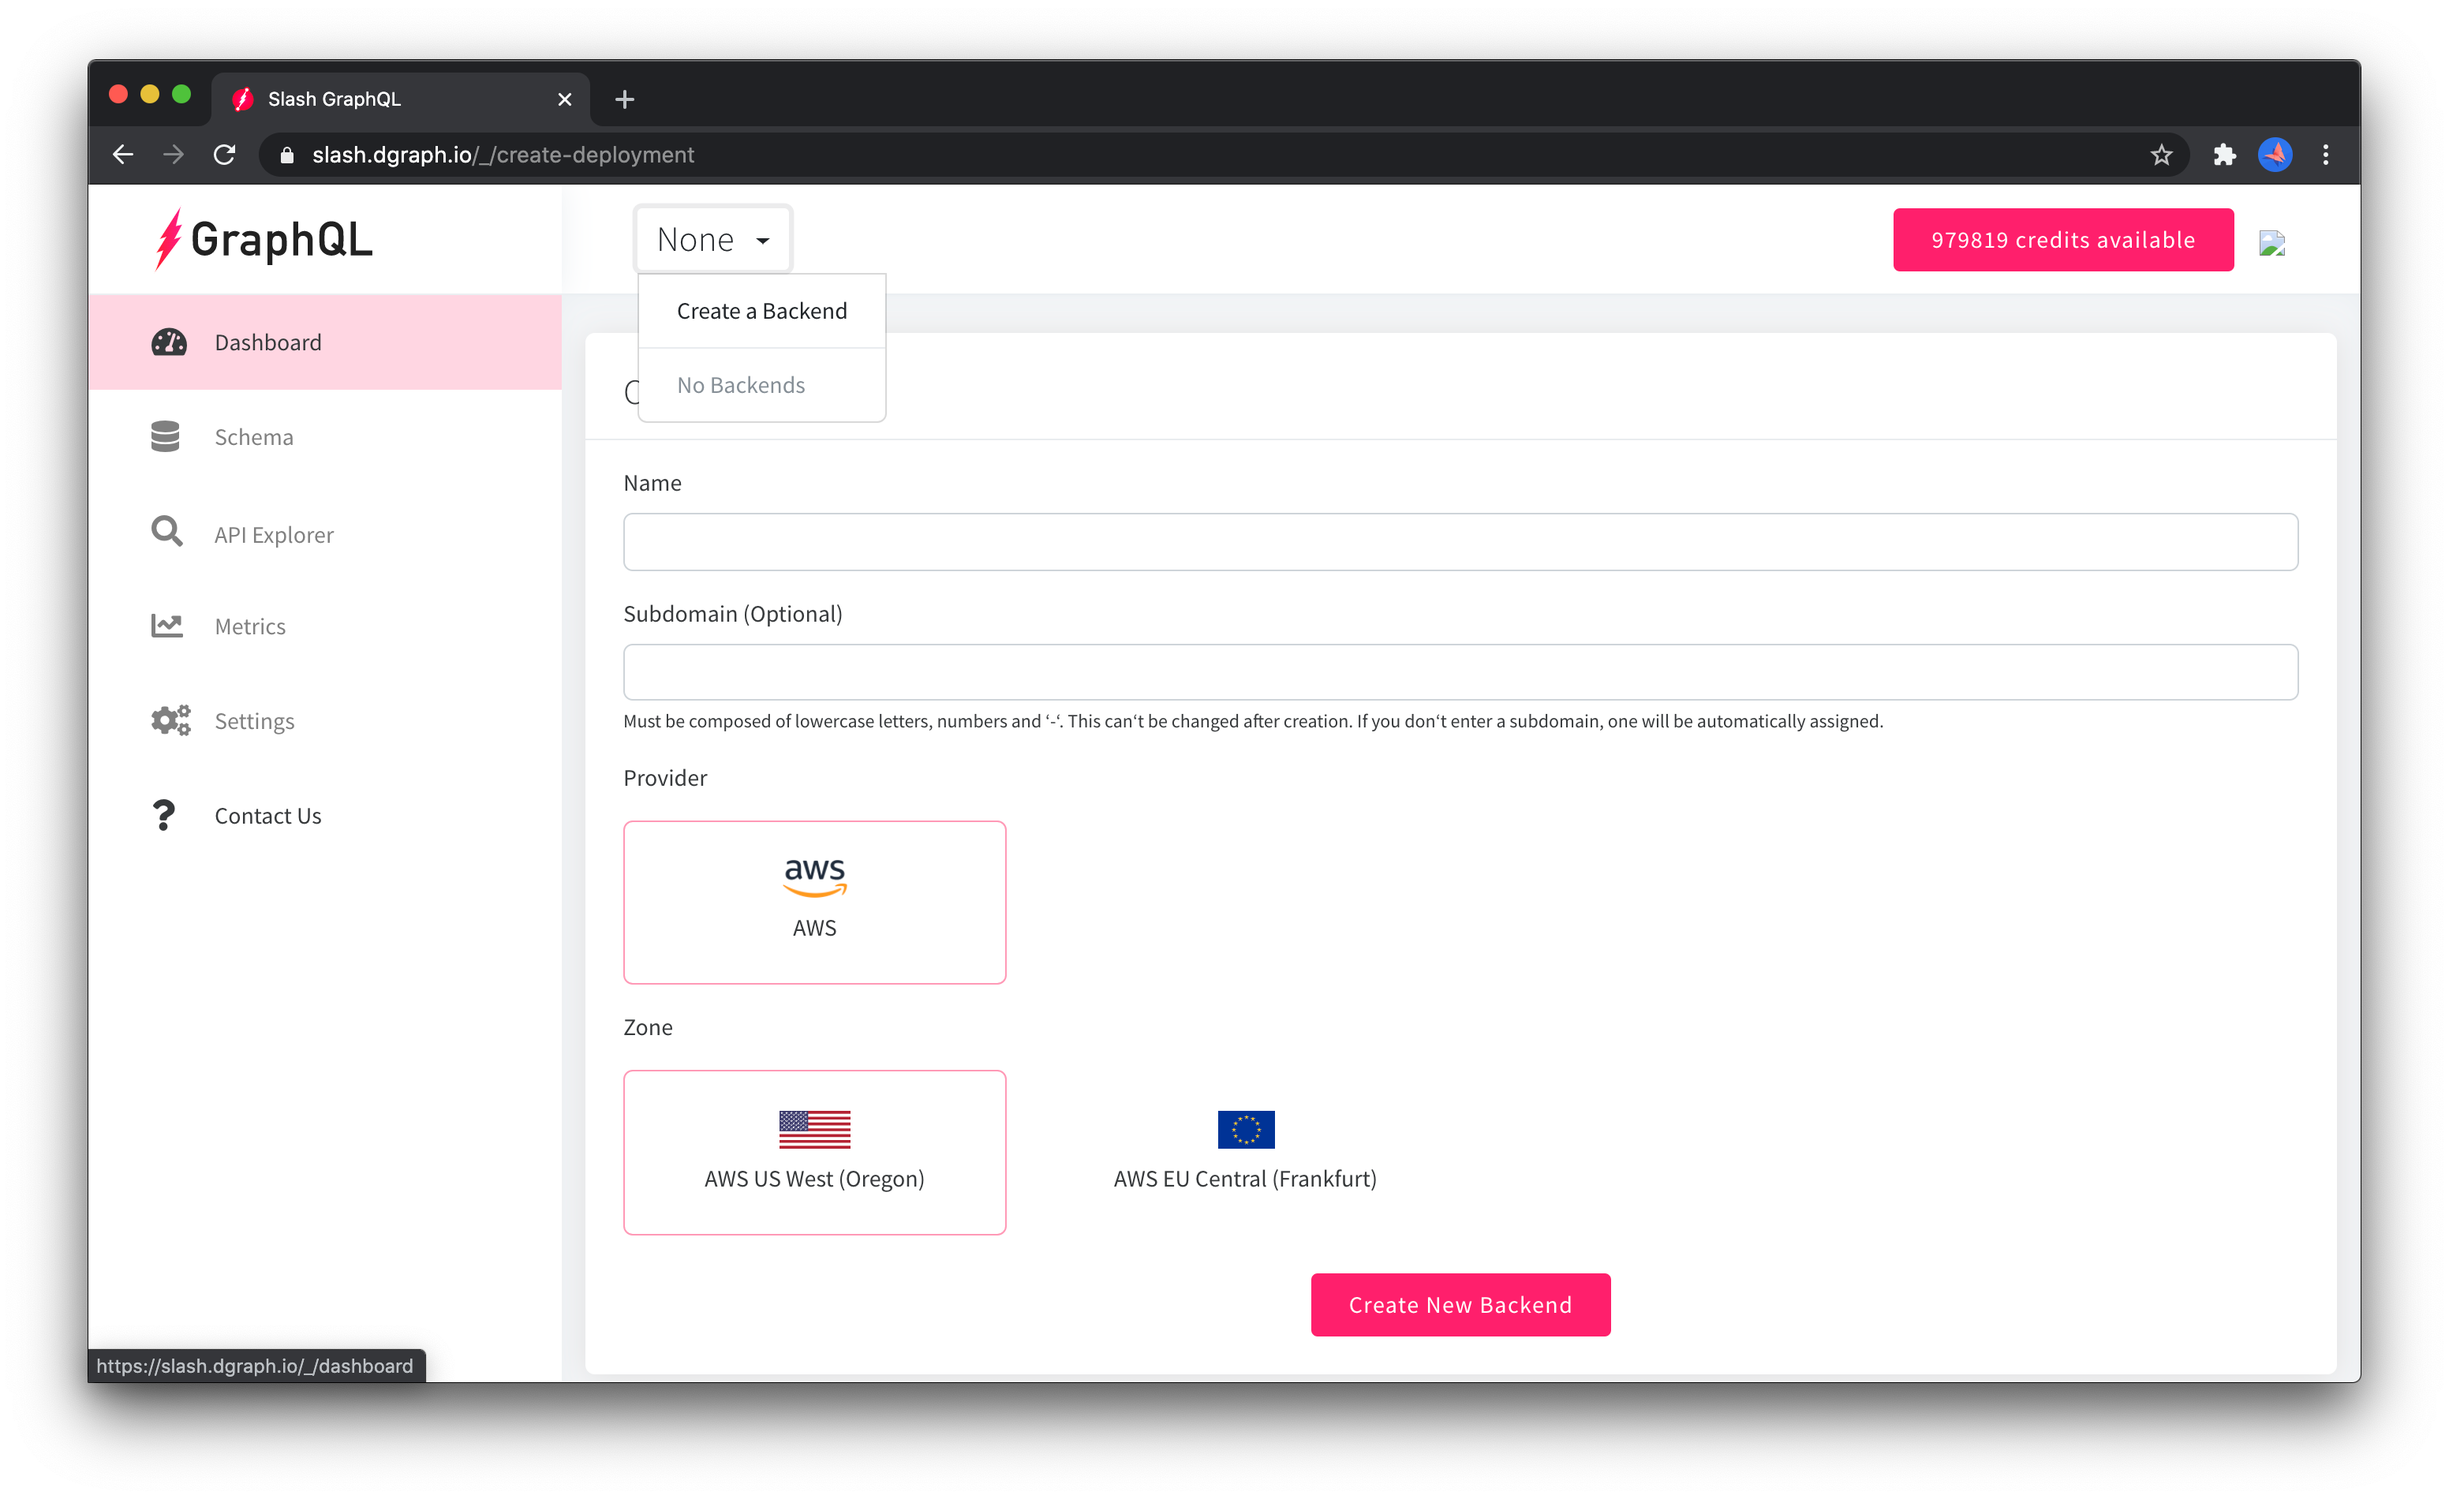
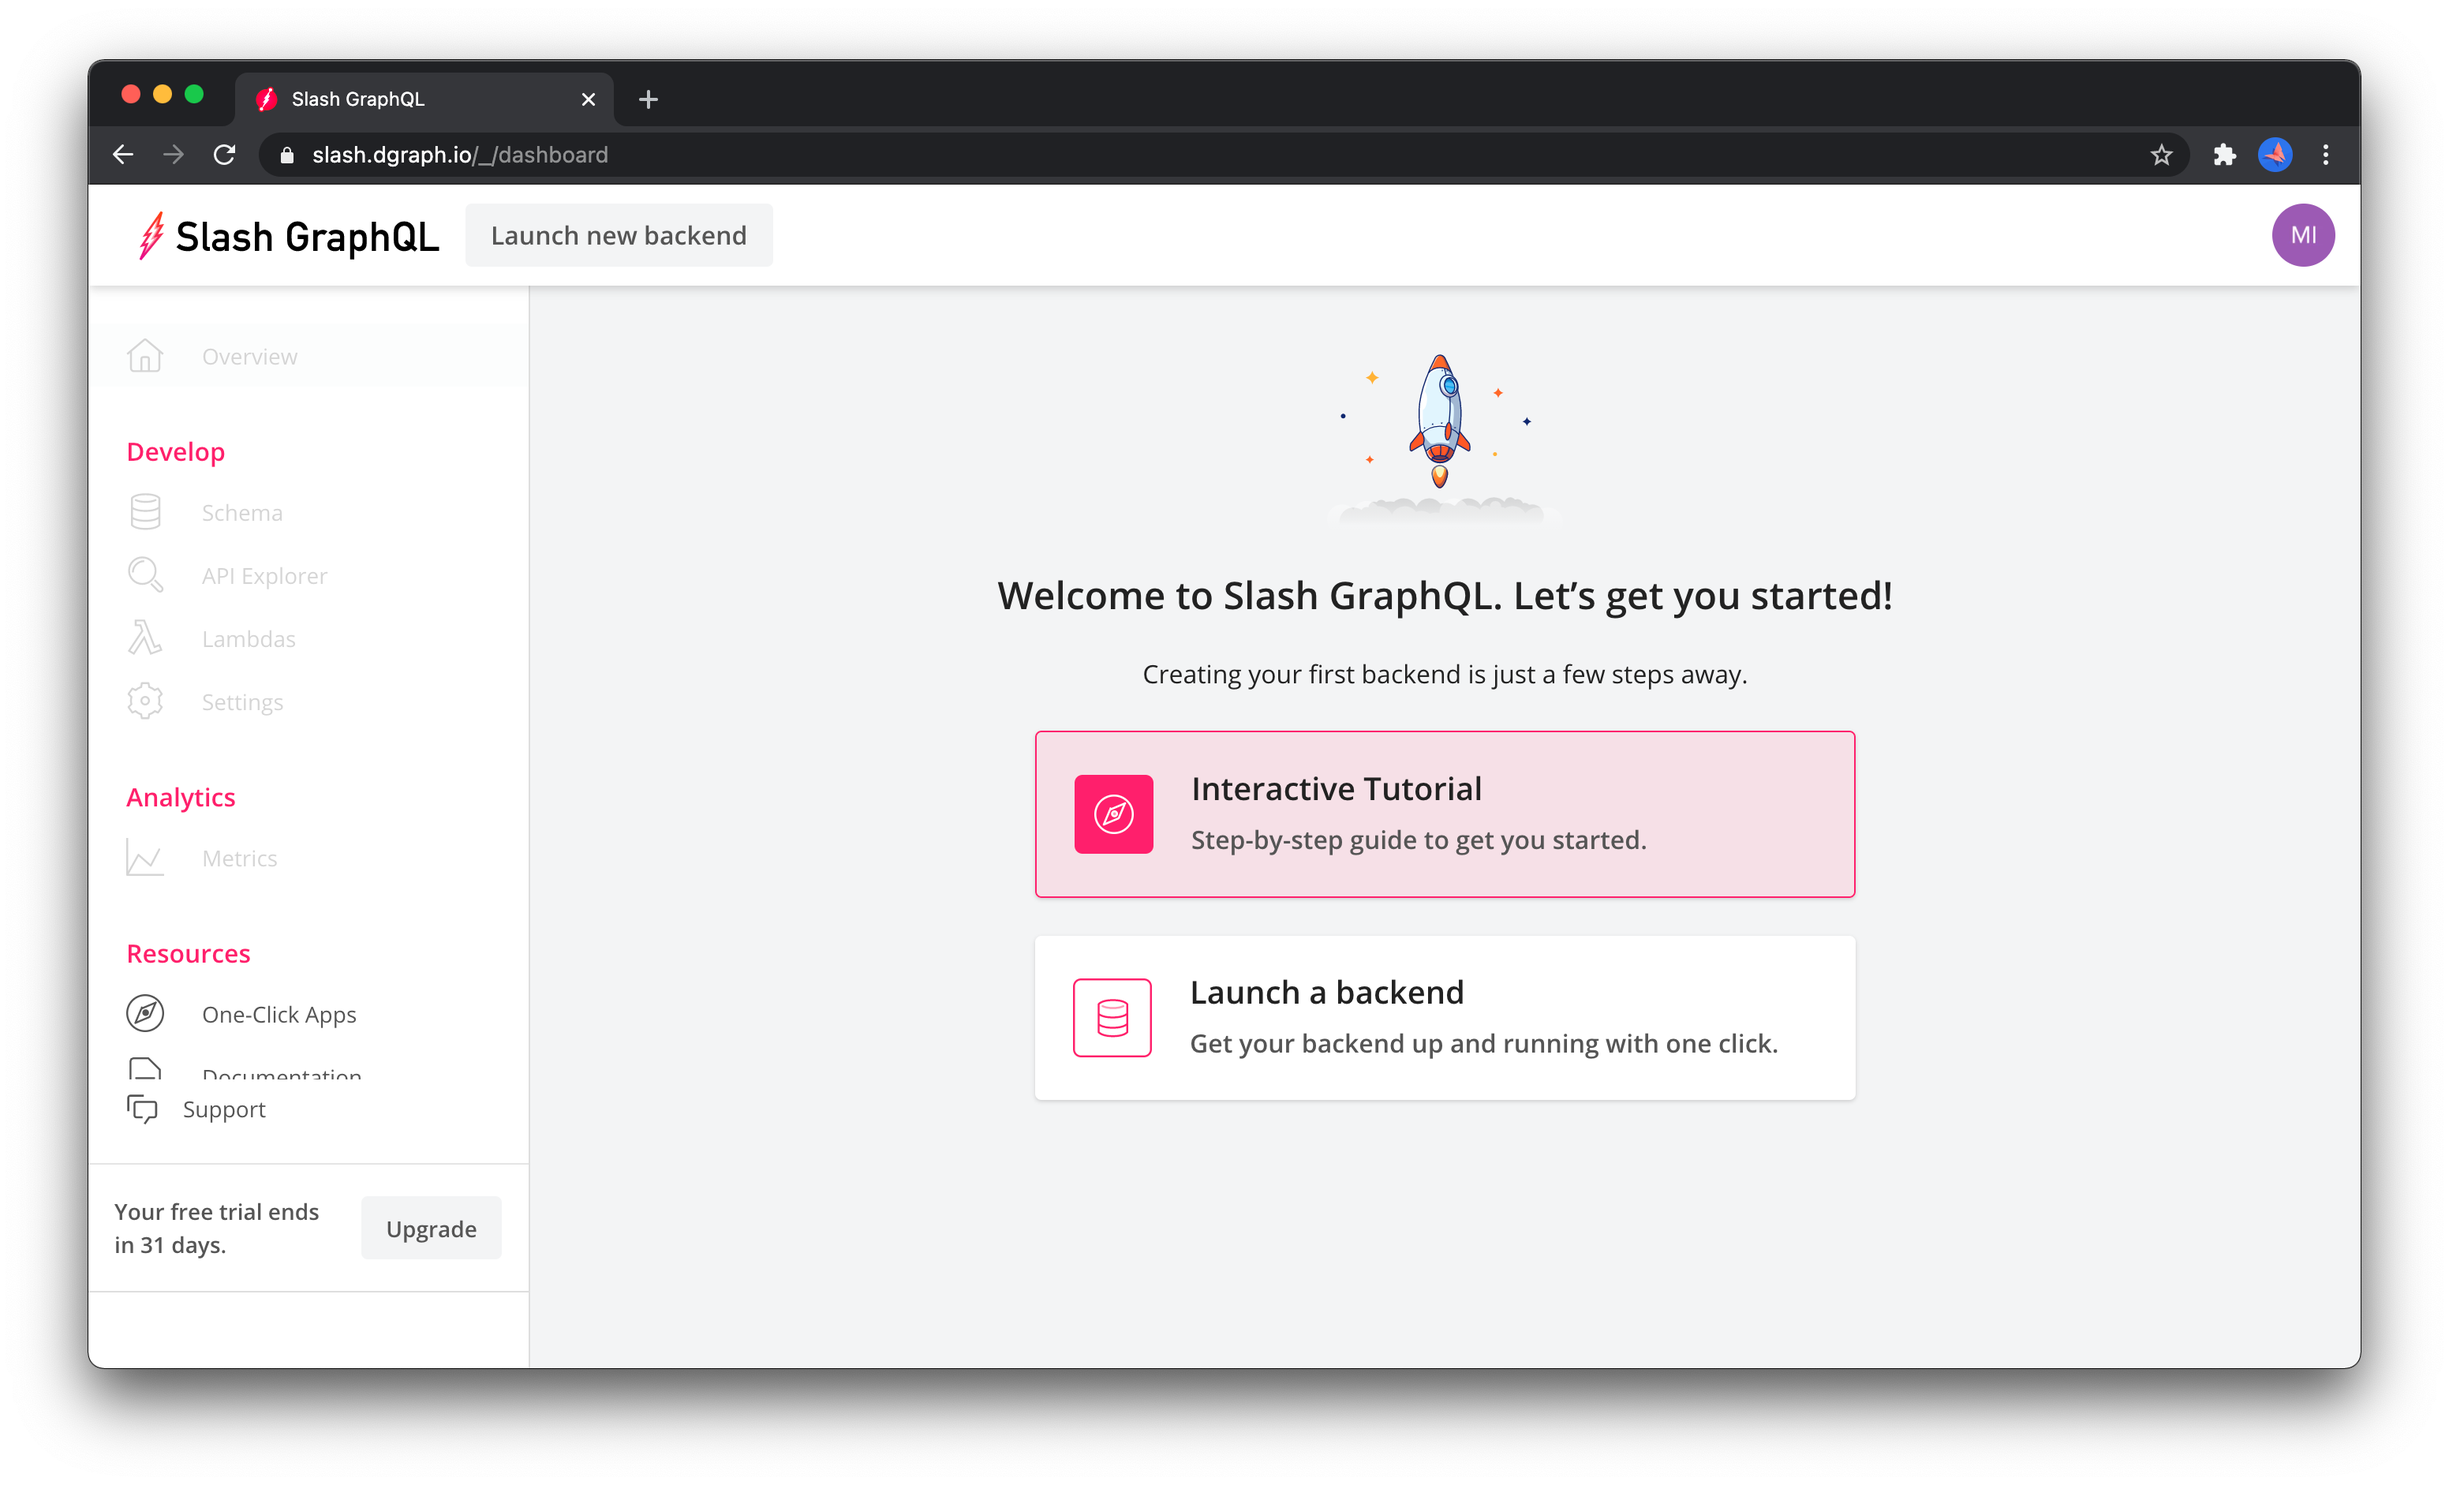
Update images for new Slash GraphQL UI

diff --git a/README.md b/README.md
@@ -76,15 +76,19 @@ Once that has completed, Slash GraphQL needs to know the ID of the Auth0 applica
 
 ## Step 2 - Deploy a Slash GraphQL backend
 
-After you have signed up for Slash GraphQL, [login](https://slash.dgraph.io/), navigate to the dashboard, or use the backend selector to create a new backend. 
+After you have signed up for Slash GraphQL, [login](https://slash.dgraph.io/), select **Launch new Backend** to create a new GraphQL backend. 
 
 ![Launch Slash GraphQL backend](./create-backend.png)
+
+Enter the details for your backend and click **Launch**.
+
+![Enter GraphQL backend details](./backend-details.png)
 
 Once the backend has been created:
 
 ![New GraphQL backend](./new-backend.png)
 
-record the "Backend Endpoint" URL (minus the `/graphql` suffix) and copy this into the `REACT_APP_SLASH_GRAPHQL_ENDPOINT` value in the `.env` file in this directory.  It should look something like:
+...record the "Backend Endpoint" URL (minus the `/graphql` suffix) and copy this into the `REACT_APP_SLASH_GRAPHQL_ENDPOINT` value in the `.env` file in this directory.  It should look something like:
 
 ```
 REACT_APP_SLASH_GRAPHQL_ENDPOINT=https://some.backend.dgraph.io
@@ -92,7 +96,7 @@ REACT_APP_SLASH_GRAPHQL_ENDPOINT=https://some.backend.dgraph.io
 
 with your actual backend URL.
 
-Then navigate to the "Settings" tab and click the "Add API Key" button to create a new API key.  Keep a record of this key, because it will be needed in a moment.
+Then navigate to the "Settings" tab, select "Security" and click the "Create New" button to create a new API key.  Keep a record of this key, because it will be needed in a moment.
 
 ![Slash GraphQL API key](./slash-api-key.png)
 
